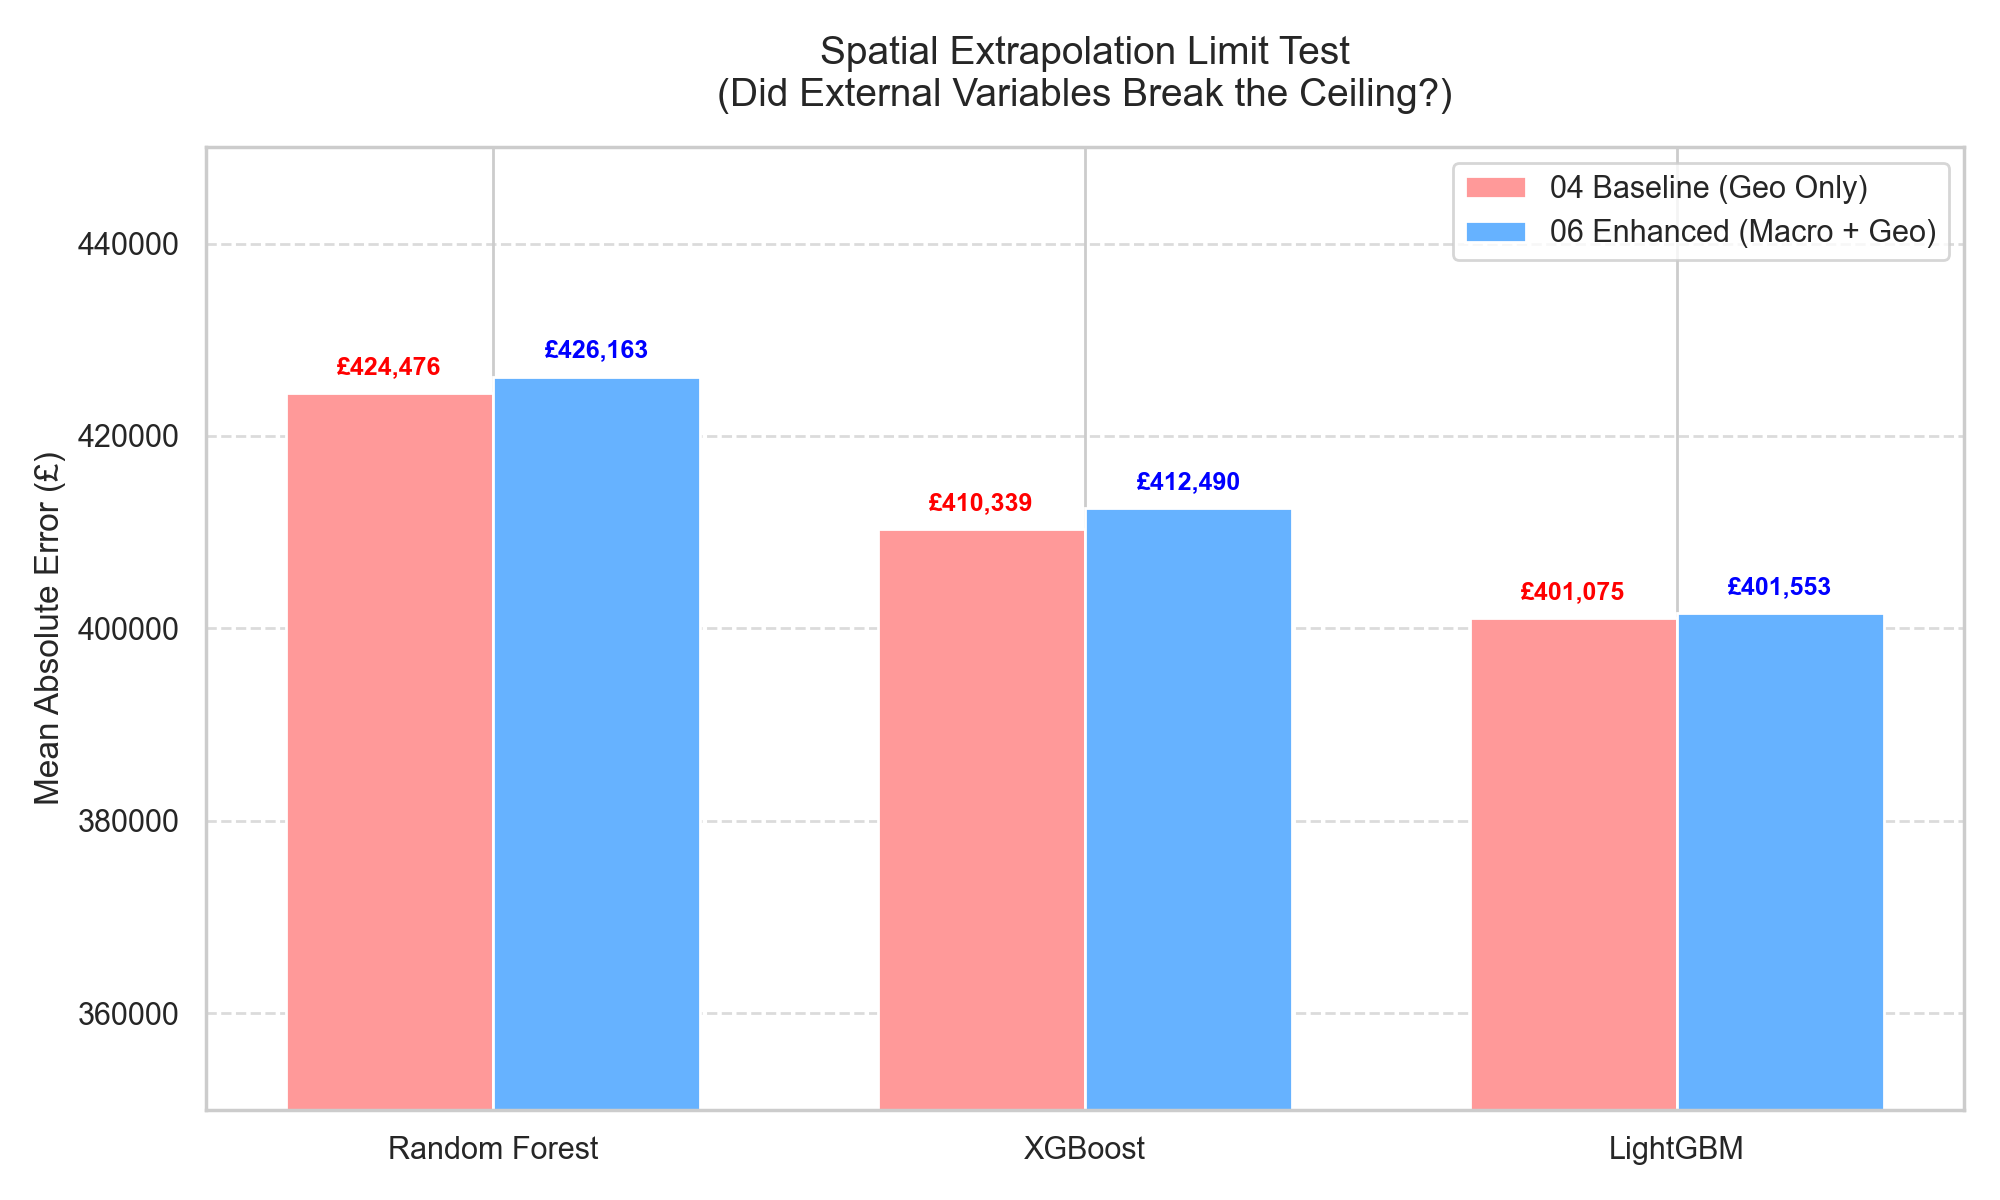
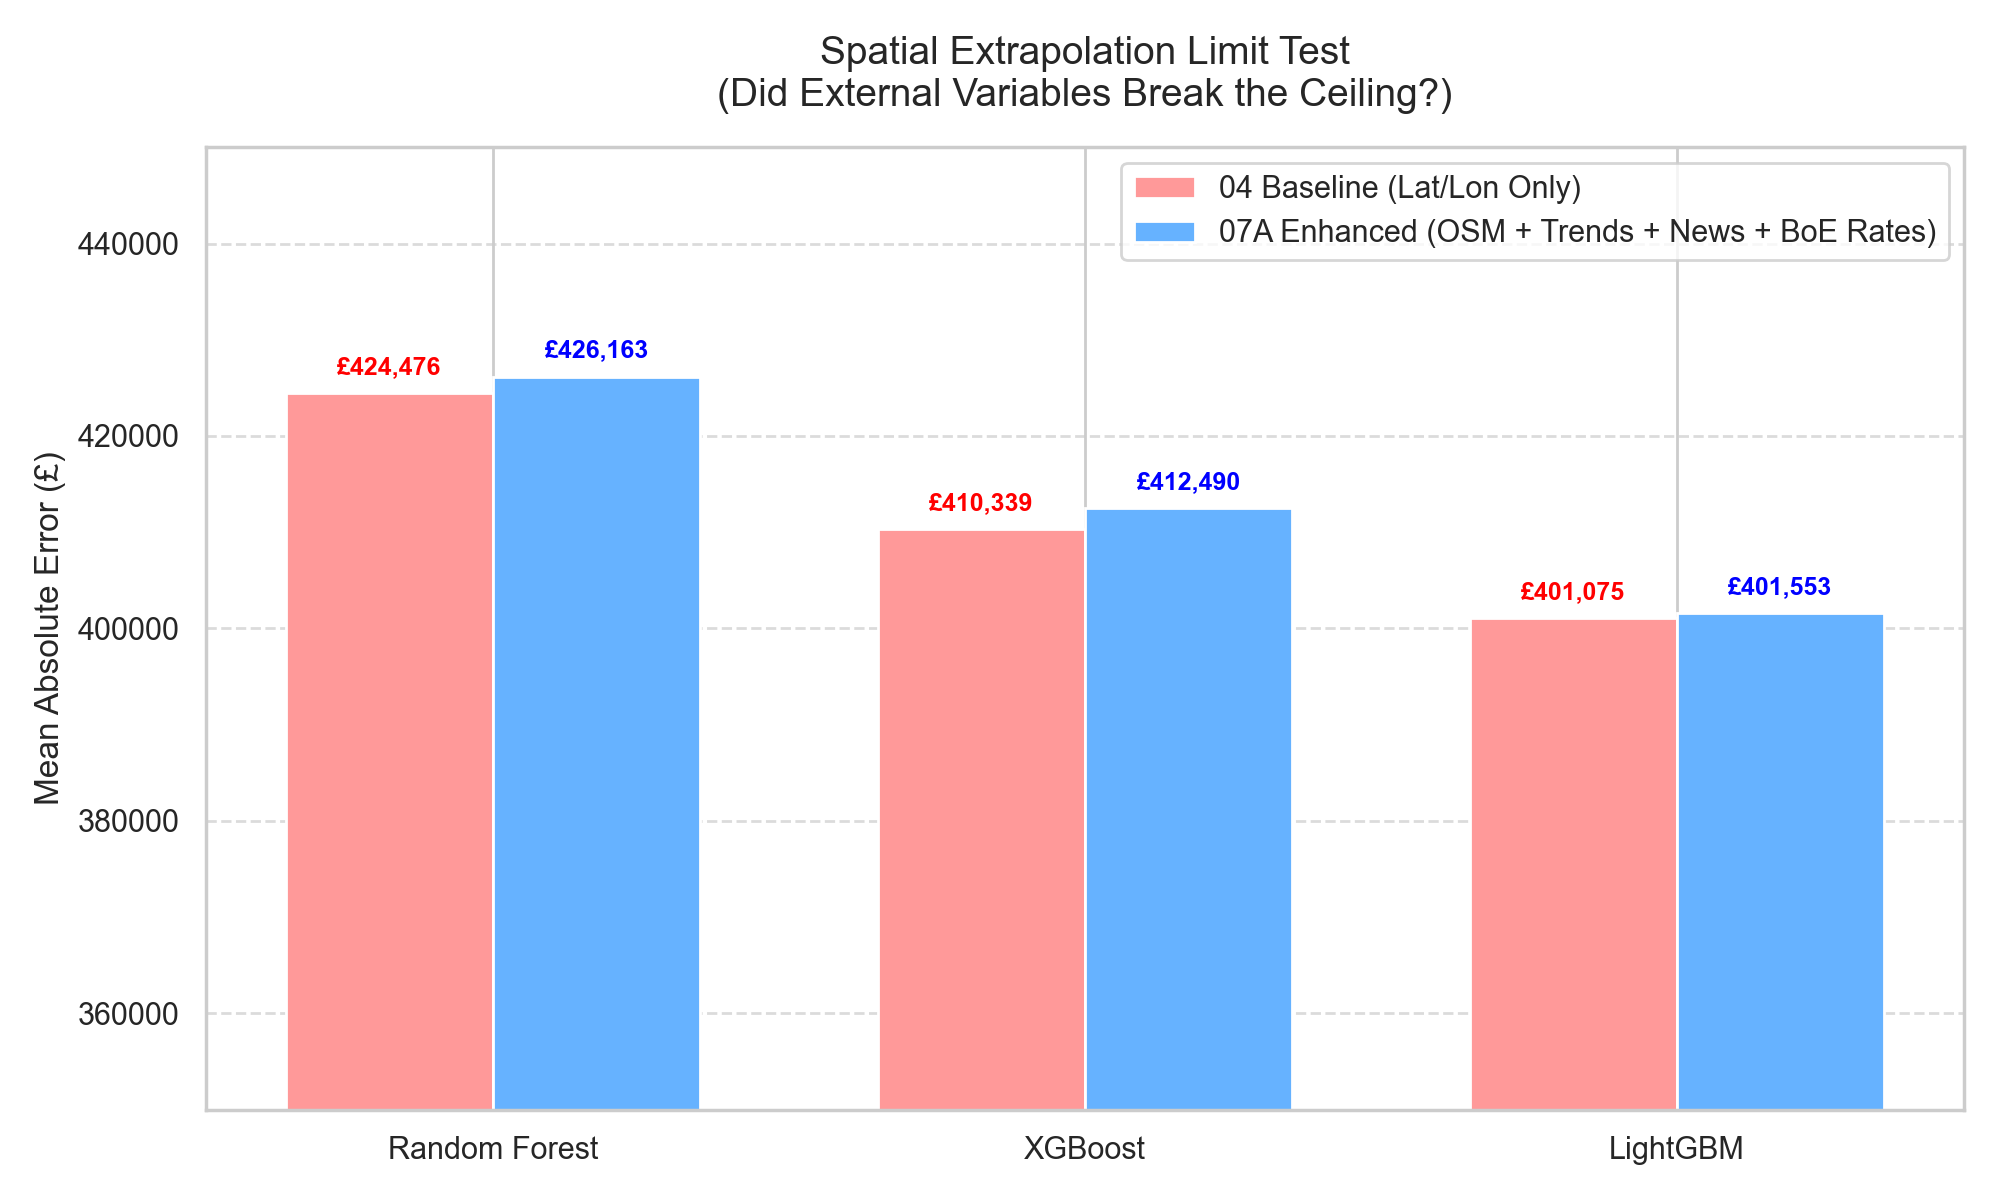
Repoint legend definitions mapping 07A external feature parameters exactly and structurally inject the exact performance crash visual explicitly mapping Collinearity dynamically inside Readme

Changed region(s): [[0.558, 0.1233, 0.961, 0.2158]]

diff --git a/07A_vs_04_model_comparison.py b/07A_vs_04_model_comparison.py
@@ -20,8 +20,8 @@ x = range(len(models))
 width = 0.35
 
 # Plot side by side performance geometries
-bars1 = ax.bar([i - width/2 for i in x], mae_04, width, label='04 Baseline (Geo Only)', color='#FF9999')
-bars2 = ax.bar([i + width/2 for i in x], mae_06, width, label='06 Enhanced (Macro + Geo)', color='#66B2FF')
+bars1 = ax.bar([i - width/2 for i in x], mae_04, width, label='04 Baseline (Lat/Lon Only)', color='#FF9999')
+bars2 = ax.bar([i + width/2 for i in x], mae_06, width, label='07A Enhanced (OSM + Trends + News + BoE Rates)', color='#66B2FF')
 
 # Add descriptive structural tracking texts
 ax.set_title('Spatial Extrapolation Limit Test\n(Did External Variables Break the Ceiling?)', fontsize=14, pad=15)

diff --git a/README.md b/README.md
@@ -218,6 +218,9 @@ We first injected ALL macro variables (Interest Rates, Search volume).
 * **XGBoost Error:** Skyrocketed by +£2,151 as it chased false interest rate splits.
 * **XGBoost Speed:** Collapsed to ~3.65s attempting to logically parse massive Google integer arrays.
 
+![07A Vs 04 Feature Impact Map](07A_Vs_04_chart_feature_impact_comparison.png)
+*(Above: Direct geometric error shift explicitly demonstrating the 'Collinearity Crash')*
+
 ![08A Error Map](08A_chart_model_mae_comparison.png)
 *(Notice XGBoost actively dropping in performance structurally)*
 
